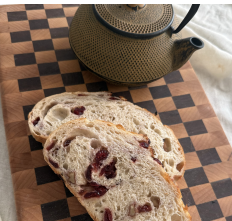
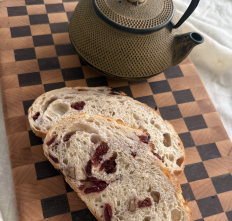
Refine hero image framing and refresh hero loaf photo.
Over-bleed and reposition the first hero image to avoid edge artifacts, and include the updated hero-loaf2 asset replacement.

diff --git a/components/DirectionA.tsx b/components/DirectionA.tsx
@@ -259,10 +259,13 @@ const HeroFirstLoafImg = ({ height, isMobile }: { height: number; isMobile: bool
       src="/images/hero/first-loaf.png"
       alt="The very first boule"
       style={{
-        width: "100%",
-        height: "100%",
+        position: "absolute",
+        inset: -3,
+        width: "calc(100% + 6px)",
+        height: "calc(100% + 6px)",
         objectFit: "cover",
-        objectPosition: "center 38%",
+        objectPosition: "center 62%",
+        transform: "scale(1.03)",
         display: "block"
       }}
     />